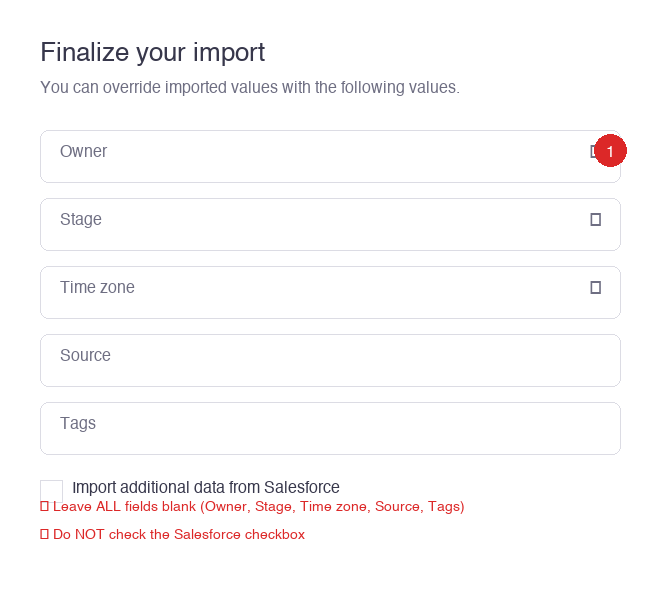
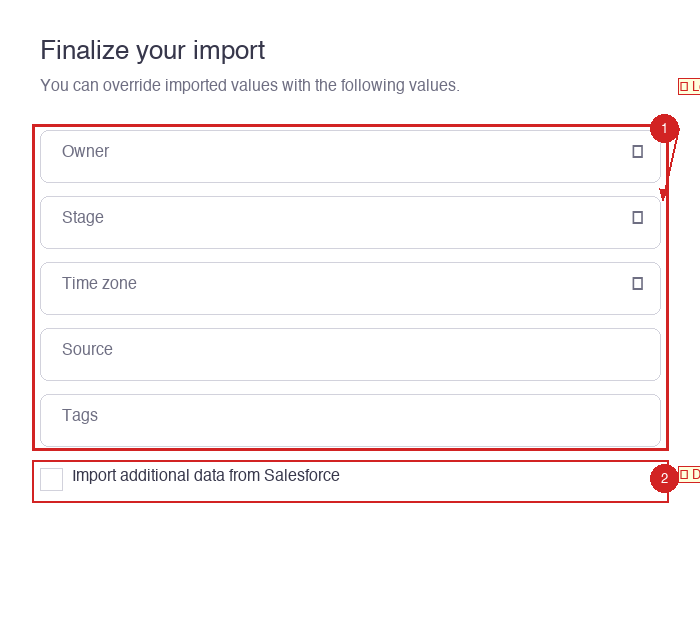
Add red annotations to all import screenshots + filtered prospects view
Re-generated all 6 import screenshots with red callout boxes, numbered
badges, and arrows pointing to key elements. Added screenshot 08 showing
the filtered Prospects view after clicking the import count batch link.

diff --git a/sections/03-outreach-sequences/README.md b/sections/03-outreach-sequences/README.md
@@ -127,6 +127,10 @@ This is the end-to-end process for building a new audience and getting emails ou
 
 **9.** Click that number → Outreach opens the Prospects page filtered to exactly those people
 
+![Filtered prospects view — only your import batch](../../assets/screenshots/outreach/08-filtered-prospects.png)
+
+The **"For batch is XXXXX"** filter chip appears automatically. You can see the total count matches your import. This is your working audience.
+
 **10.** Check all the boxes → select all → click **Add to Sequence** → choose the sequence → confirm
 
 ---
